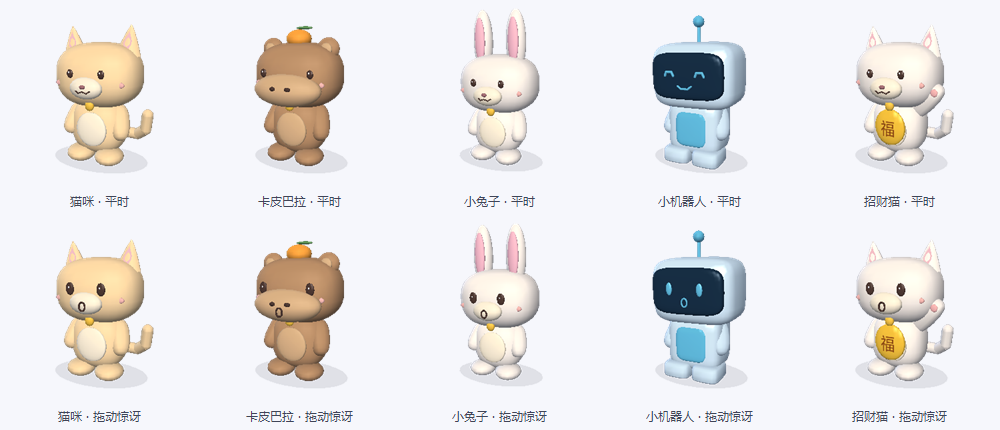
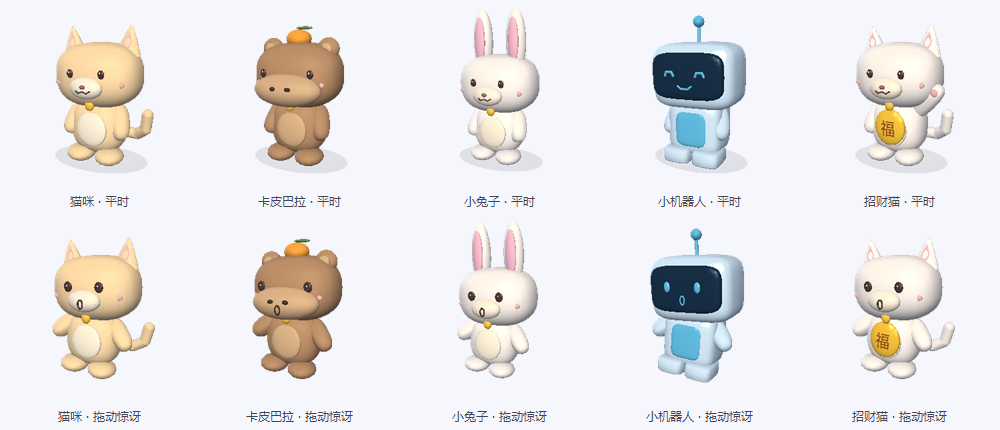
Animate picked-up pets with head sway, dangling feet and eased release

diff --git a/src/PetModel3D.cs b/src/PetModel3D.cs
@@ -34,8 +34,10 @@ public static class PetModel3D
     private sealed class Scene
     {
         public W3.Model3DGroup World = new W3.Model3DGroup();
-        public W3.AxisAngleRotation3D Head, LeftArm, RightArm, Tail;
+        public W3.AxisAngleRotation3D Head, LeftArm, RightArm, Tail, LeftLeg, RightLeg, Sway;
         public W3.ScaleTransform3D Breath, EyeLeft, EyeRight;
+        public W3.ScaleTransform3D Mouth;
+        public W3.TranslateTransform3D Lift;
         public double TargetY;
         public int Pose, Kind;
     }
@@ -189,7 +191,7 @@ public static class PetModel3D
         scene.World.Children.Add(new W3.DirectionalLight(WM.Color.FromRgb(65, 79, 104), new W3.Vector3D(.8, -.1, .4)));
         Color fur = kind == 0 ? Color.FromArgb(255, 219, 165) : kind == 1 ? Color.FromArgb(188, 143, 103) : kind == 3 ? Color.FromArgb(210, 232, 244) : Color.FromArgb(255, 245, 232);
         Color accent = theme == 0 ? Color.FromArgb(96, 188, 220) : Color.FromArgb(225, 146, 184), ink = Color.FromArgb(77, 56, 49), pale = kind == 1 ? Color.FromArgb(218, 177, 132) : Color.FromArgb(255, 241, 213);
-        if (pose != 4) Ball(scene.World, 0, -.03, 0, 1.25, .012, .85, Color.FromArgb(28, 55, 55, 75));
+        if (pose != 4 && pose != 5) Ball(scene.World, 0, -.03, 0, 1.25, .012, .85, Color.FromArgb(28, 55, 55, 75));
         W3.Model3DGroup character = new W3.Model3DGroup(); scene.World.Children.Add(character);
         scene.Breath = new W3.ScaleTransform3D(1, 1, 1, 0, 1, 0); W3.Transform3DGroup poseTransform = new W3.Transform3DGroup(); poseTransform.Children.Add(scene.Breath);
         if (pose == 1)
@@ -202,10 +204,15 @@ public static class PetModel3D
             poseTransform.Children.Add(new W3.RotateTransform3D(new W3.AxisAngleRotation3D(new W3.Vector3D(1, 0, 0), -18), new W3.Point3D(0, 1.3, 0))); poseTransform.Children.Add(new W3.TranslateTransform3D(0, .12, 0));
             Ball(scene.World, 0, .4, -.15, .8, .13, .7, accent, true); Ball(scene.World, 0, 1.1, -.75, .8, .8, .13, accent, true);
         }
+        scene.Sway = new W3.AxisAngleRotation3D(new W3.Vector3D(0, 0, 1), 0);
+        scene.Lift = new W3.TranslateTransform3D();
+        poseTransform.Children.Add(new W3.RotateTransform3D(scene.Sway, new W3.Point3D(0, 2.65, 0))); poseTransform.Children.Add(scene.Lift);
         character.Transform = poseTransform;
         Ball(character, 0, .88, 0, .7, .71, .54, fur, kind == 3, kind == 3, kind != 3);
         Ball(character, 0, .87, .49, .4, .43, .075, kind == 3 ? accent : pale, kind == 3, kind == 3);
-        Ball(character, -.38, .18, .28, .35, .21, .4, fur, kind == 3); Ball(character, .38, .18, .28, .35, .21, .4, fur, kind == 3);
+        W3.Model3DGroup leftLeg = Joint(character, new W3.Vector3D(1, 0, 0), new W3.Point3D(-.38, .65, 0), out scene.LeftLeg);
+        W3.Model3DGroup rightLeg = Joint(character, new W3.Vector3D(1, 0, 0), new W3.Point3D(.38, .65, 0), out scene.RightLeg);
+        Ball(leftLeg, -.38, .18, .28, .35, .21, .4, fur, kind == 3); Ball(rightLeg, .38, .18, .28, .35, .21, .4, fur, kind == 3);
         W3.Model3DGroup head = Joint(character, pose == 3 ? new W3.Vector3D(1, 0, 0) : new W3.Vector3D(0, 0, 1), new W3.Point3D(0, 2.05, 0), out scene.Head);
         W3.Transform3DGroup refinedHead = new W3.Transform3DGroup(); refinedHead.Children.Add(new W3.ScaleTransform3D(kind == 3 ? 1.05 : 1.14, 1.08, 1.09, 0, 2.32, 0)); refinedHead.Children.Add(new W3.TranslateTransform3D(0, -.17, 0)); refinedHead.Children.Add(head.Transform); head.Transform = refinedHead;
         Ball(head, 0, 2.32, 0, kind == 3 ? 1.01 : .94, .73, kind == 3 ? .65 : .73, fur, kind == 3, kind == 3, kind != 3);
@@ -247,7 +254,9 @@ public static class PetModel3D
             if (kind != 3 && kind != 1) Ball(head, 0, 2.12, .7, .36, .24, .17, pale);
             W3.Point3D[] mouth = new W3.Point3D[17];
             for (int i = 0; i < mouth.Length; i++) { double a = i * Math.PI * 2 / 16; mouth[i] = new W3.Point3D(Math.Cos(a) * .065, (kind == 1 ? 1.98 : kind == 3 ? 2.14 : 2.075) + Math.Sin(a) * .09, kind == 1 ? 1.005 : kind == 3 ? .774 : .88); }
-            Curve(head, mouth, .018, kind == 3 ? accent : ink);
+            scene.Mouth = new W3.ScaleTransform3D(1, 1, 1, 0, kind == 1 ? 1.98 : kind == 3 ? 2.14 : 2.075, 0);
+            W3.Model3DGroup movingMouth = new W3.Model3DGroup { Transform = scene.Mouth }; head.Children.Add(movingMouth);
+            Curve(movingMouth, mouth, .018, kind == 3 ? accent : ink);
         }
         else if (kind == 3) Curve(head, new[] { new W3.Point3D(-.16, 2.17, .77), new W3.Point3D(-.08, 2.11, .77), new W3.Point3D(.08, 2.11, .77), new W3.Point3D(.16, 2.17, .77) }, .023, accent);
         else if (kind != 1)
@@ -255,13 +264,13 @@ public static class PetModel3D
             Ball(head, 0, 2.12, .7, .36, .24, .17, pale); Ball(head, 0, 2.17, .87, .065, .045, .035, Color.FromArgb(165, 111, 115));
             Curve(head, new[] { new W3.Point3D(-.15, 2.08, .855), new W3.Point3D(-.09, 2.04, .88), new W3.Point3D(0, 2.075, .891), new W3.Point3D(.09, 2.04, .88), new W3.Point3D(.15, 2.08, .855) }, .014, ink);
         }
-        W3.Model3DGroup left = Joint(character, new W3.Vector3D(1, 0, 0), new W3.Point3D(-.55, 1.45, 0), out scene.LeftArm);
-        W3.Model3DGroup right = Joint(character, kind == 4 && pose == 0 ? new W3.Vector3D(0, 0, 1) : new W3.Vector3D(1, 0, 0), new W3.Point3D(.55, 1.45, 0), out scene.RightArm);
+        W3.Model3DGroup left = Joint(character, pose == 5 ? new W3.Vector3D(0, 0, 1) : new W3.Vector3D(1, 0, 0), new W3.Point3D(-.55, 1.45, 0), out scene.LeftArm);
+        W3.Model3DGroup right = Joint(character, pose == 5 || kind == 4 && pose == 0 ? new W3.Vector3D(0, 0, 1) : new W3.Vector3D(1, 0, 0), new W3.Point3D(.55, 1.45, 0), out scene.RightArm);
         for (int sign = -1; sign <= 1; sign += 2)
         {
             W3.Model3DGroup arm = sign < 0 ? left : right;
             W3.Point3D shoulder = new W3.Point3D(sign * .52, 1.27, .03);
-            W3.Point3D hand = pose == 4 ? new W3.Point3D(sign * .89, 2.58, .7) : pose == 3 ? new W3.Point3D(sign * .42, 1.23, 1.06) : pose == 2 ? new W3.Point3D(sign * .29, 1.34, .92) : kind == 4 && sign > 0 ? new W3.Point3D(.92, 1.95, .23) : new W3.Point3D(sign * .65, .81, .28);
+            W3.Point3D hand = pose == 5 ? new W3.Point3D(sign * .85, .91, .23) : pose == 4 ? new W3.Point3D(sign * .89, 2.58, .7) : pose == 3 ? new W3.Point3D(sign * .42, 1.23, 1.06) : pose == 2 ? new W3.Point3D(sign * .29, 1.34, .92) : kind == 4 && sign > 0 ? new W3.Point3D(.92, 1.95, .23) : new W3.Point3D(sign * .65, .81, .28);
             PlushArm(arm, shoulder, hand, fur);
             if (pose == 4) Ball(arm, hand.X, hand.Y, hand.Z, .26, .2, .2, fur, kind == 3);
             if (kind == 4 && sign > 0 && pose == 0) Ball(arm, hand.X, hand.Y, hand.Z + .2, .09, .09, .02, Color.FromArgb(245, 180, 175));
@@ -310,26 +319,39 @@ public static class PetModel3D
         }
         return result;
     }
-    public static Bitmap Render(int kind, int theme, int frame, int pose, double yaw, double pitch, bool walking, bool speaking, bool surprised = false, int pixelWidth = 200)
+    public static Bitmap Render(int kind, int theme, int frame, int pose, double yaw, double pitch, bool walking, bool speaking, bool surprised = false, int pixelWidth = 200, double dragLean = 0)
     {
+        if (surprised) pose = 5; // 临时被拎起姿态，不覆盖用户选择的坐/睡/摸鱼/工作状态。
         // 只缓存当前角色和视角的一轮循环。转动相机立即重新进行三维渲染，旧位图及时释放。
-        string view = kind + ":" + theme + ":" + yaw.ToString("R", CultureInfo.InvariantCulture) + ":" + pitch.ToString("R", CultureInfo.InvariantCulture) + ":" + surprised + ":" + pixelWidth;
+        string view = kind + ":" + theme + ":" + yaw.ToString("R", CultureInfo.InvariantCulture) + ":" + pitch.ToString("R", CultureInfo.InvariantCulture) + ":" + pixelWidth;
         if (view != cachedView)
         {
             foreach (Bitmap image in AnimationFrames.Values) image.Dispose(); AnimationFrames.Clear(); cachedView = view;
         }
         int phase = frame % 48;
         string animationKey = pose + ":" + phase + ":" + walking; Bitmap cached;
-        if (AnimationFrames.TryGetValue(animationKey, out cached)) return (Bitmap)cached.Clone();
+        bool cacheFrame = !surprised || Math.Abs(dragLean) < .05;
+        if (cacheFrame && AnimationFrames.TryGetValue(animationKey, out cached)) return (Bitmap)cached.Clone();
         string key = kind + ":" + theme + ":" + pose + ":" + surprised; Scene scene;
         if (!Scenes.TryGetValue(key, out scene)) { scene = Build(kind, theme, pose, surprised); Scenes.Add(key, scene); }
-        double t = phase * Math.PI * 2 / 48, eye = !surprised && (pose == 1 || phase >= 44 && phase <= 46) ? .07 : 1;
+        double t = phase * Math.PI * 2 / 48, eye = pose == 1 || phase >= 44 && phase <= 46 ? .07 : 1;
         scene.EyeLeft.ScaleY = scene.EyeRight.ScaleY = eye;
         scene.Breath.ScaleY = 1 + Math.Sin(t * (pose == 1 ? 1 : 2)) * .012;
         scene.Head.Angle = pose == 3 ? 6 + Math.Sin(t * 2) * 2 : Math.Sin(t) * 2;
         scene.LeftArm.Angle = pose == 3 ? Math.Sin(t * 6) * 4 : walking ? Math.Sin(t * 4) * 8 : Math.Sin(t * 2) * 2;
         scene.RightArm.Angle = kind == 4 && pose == 0 ? Math.Sin(t * 2) * 14 : -scene.LeftArm.Angle;
         scene.Tail.Angle = Math.Sin(t * 2) * 12;
+        if (surprised)
+        {
+            scene.Sway.Angle = Math.Sin(t * 2) * 4.5 + Math.Max(-10, Math.Min(10, dragLean));
+            scene.Lift.OffsetY = .045 + Math.Sin(t * 4) * .025;
+            scene.Head.Angle = -Math.Sin(t * 2 + .35) * 7;
+            scene.LeftLeg.Angle = Math.Sin(t * 4) * 25; scene.RightLeg.Angle = -scene.LeftLeg.Angle;
+            scene.LeftArm.Angle = -14 + Math.Sin(t * 3) * 11; scene.RightArm.Angle = 14 - Math.Sin(t * 3 + .6) * 11;
+            scene.Mouth.ScaleX = .9 + Math.Sin(t * 2) * .12; scene.Mouth.ScaleY = .85 + Math.Cos(t * 3) * .25;
+            scene.EyeLeft.ScaleY *= .93 + Math.Sin(t * 2) * .1; scene.EyeRight.ScaleY *= .93 + Math.Sin(t * 2 + .2) * .1;
+            scene.Tail.Angle = Math.Sin(t * 3) * 20;
+        }
         double angle = yaw * Math.PI / 180, elevation = pitch * Math.PI / 180, distance = scene.Pose == 3 || scene.Kind == 2 ? 9.0 : 8.1;
         W3.Vector3D offset = new W3.Vector3D(Math.Sin(angle) * Math.Cos(elevation) * distance, Math.Sin(elevation) * distance, Math.Cos(angle) * Math.Cos(elevation) * distance);
         Camera.Position = new W3.Point3D(offset.X, scene.TargetY + offset.Y, offset.Z); Camera.LookDirection = -offset; Camera.UpDirection = new W3.Vector3D(0, 1, 0);
@@ -341,8 +363,8 @@ public static class PetModel3D
             Bitmap result = new Bitmap(pixelWidth, (int)Math.Round(pixelWidth * .95), PixelFormat.Format32bppPArgb);
             using (Graphics g = Graphics.FromImage(result))
             { g.CompositingMode = System.Drawing.Drawing2D.CompositingMode.SourceCopy; g.InterpolationMode = System.Drawing.Drawing2D.InterpolationMode.HighQualityBicubic; g.PixelOffsetMode = System.Drawing.Drawing2D.PixelOffsetMode.HighQuality; g.DrawImage(high, new Rectangle(0, 0, result.Width, result.Height)); }
-            AnimationFrames.Add(animationKey, result);
-            return (Bitmap)result.Clone();
+            if (cacheFrame) { AnimationFrames.Add(animationKey, result); return (Bitmap)result.Clone(); }
+            return result;
         }
     }
 }

diff --git a/src/DesktopPet.cs b/src/DesktopPet.cs
@@ -31,6 +31,22 @@ public sealed class PetHoverState
     }
 }
 
+// 使用经过时间而不是鼠标消息次数控制过渡，拖得快慢都不会突然跳脸。
+public sealed class PetDragMotion
+{
+    private DateTime last;
+    public double Amount { get; private set; }
+    public double Lean { get; private set; }
+    public void Update(bool held, DateTime now, double impulse)
+    {
+        double seconds = last == DateTime.MinValue ? .04 : Math.Max(0, Math.Min(.1, (now - last).TotalSeconds)); last = now;
+        Amount += ((held ? 1 : 0) - Amount) * (1 - Math.Exp(-seconds / (held ? .09 : .16)));
+        Lean += ((held ? Math.Max(-10, Math.Min(10, impulse)) : 0) - Lean) * (1 - Math.Exp(-seconds / .1));
+        if (Amount < .005) Amount = 0; else if (Amount > .995) Amount = 1;
+        if (Math.Abs(Lean) < .05) Lean = 0;
+    }
+}
+
 public sealed class DesktopPet : Form
 {
     private Settings settings;
@@ -43,6 +59,10 @@ public sealed class DesktopPet : Form
     private bool previewVisible;
     private readonly ContextMenuStrip petMenu;
     private readonly PetBehavior behavior = new PetBehavior(DateTime.Now, Environment.TickCount);
+    private readonly PetDragMotion dragMotion = new PetDragMotion();
+    private Point dragLast;
+    private double dragImpulse;
+    private DateTime lastDraw;
     private Point down;
     private PointF grab;
     private bool dragging, rotating, travelled;
@@ -91,6 +111,8 @@ public sealed class DesktopPet : Form
         timer.Interval = 100; timer.Tick += delegate
         {
             frame++;
+            dragMotion.Update(dragging && travelled, DateTime.UtcNow, dragImpulse); dragImpulse *= .65;
+            timer.Interval = dragging && travelled || dragMotion.Amount > 0 ? 40 : 100;
             if (!Visible) { hover.Leave(); RefreshHover(); return; }
             if (frame % 10 == 0 && !rotating) FitDisplay();
             if (dockEdge != 0 && !dockExpanded && Bounds.Contains(Cursor.Position) && WindowFromPoint(Cursor.Position) == Handle)
@@ -100,8 +122,8 @@ public sealed class DesktopPet : Form
             { dockExpanded = false; hover.Leave(); }
             dockReveal = Math.Max(0, Math.Min(1, dockReveal + (dockExpanded ? .4 : -.4)));
             RefreshHover();
-            behavior.Update(settings.PetPose, DateTime.Now, dockEdge != 0 || Paused || Speaking || dragging || rotating || hover.Inside);
-            bool walk = dockEdge == 0 && settings.PetWalk && CurrentPose == 0 && !Paused && !Speaking && !dragging && !rotating && !hover.Inside && frame % 170 > 95;
+            behavior.Update(settings.PetPose, DateTime.Now, dockEdge != 0 || dragMotion.Amount > 0 || Paused || Speaking || dragging || rotating || hover.Inside);
+            bool walk = dockEdge == 0 && dragMotion.Amount == 0 && settings.PetWalk && CurrentPose == 0 && !Paused && !Speaking && !dragging && !rotating && !hover.Inside && frame % 170 > 95;
             if (walk)
             {
                 Rectangle screen = Screen.FromRectangle(Bounds).WorkingArea;
@@ -124,6 +146,7 @@ public sealed class DesktopPet : Form
             hover.Suppress(); RefreshHover();
             dragging = e.Button == MouseButtons.Left; rotating = e.Button == MouseButtons.Right;
             travelled = false; down = Cursor.Position; grab = new PointF(e.X / (float)Width, e.Y / (float)Height); downYaw = yaw; downPitch = pitch; Capture = true;
+            dragLast = down; dragImpulse = 0;
         };
         MouseMove += delegate
         {
@@ -132,7 +155,12 @@ public sealed class DesktopPet : Form
             if (Math.Abs(x) + Math.Abs(y) > 5) travelled = true;
             if (!travelled) return;
             if (rotating) { yaw = ((downYaw + x * .7) % 360 + 360) % 360; pitch = Math.Max(-25, Math.Min(60, downPitch + y * .45)); }
-            else { dockEdge = 0; dockExpanded = false; dockReveal = 0; Location = new Point(Cursor.Position.X - (int)(grab.X * Width), Cursor.Position.Y - (int)(grab.Y * Height)); }
+            else
+            {
+                dragImpulse = Math.Max(-10, Math.Min(10, (Cursor.Position.X - dragLast.X) * 45.0 / Width)); dragLast = Cursor.Position;
+                dragMotion.Update(true, DateTime.UtcNow, dragImpulse);
+                dockEdge = 0; dockExpanded = false; dockReveal = 0; Location = new Point(Cursor.Position.X - (int)(grab.X * Width), Cursor.Position.Y - (int)(grab.Y * Height));
+            }
             Draw(false);
         };
         MouseUp += delegate(object sender, MouseEventArgs e)
@@ -146,6 +174,7 @@ public sealed class DesktopPet : Form
             }
             if (!dragging || e.Button != MouseButtons.Left) return;
             dragging = false; Capture = false;
+            dragImpulse = 0;
             if (travelled)
             {
                 Rectangle screen = Screen.FromRectangle(Bounds).WorkingArea;
@@ -154,6 +183,7 @@ public sealed class DesktopPet : Form
             }
             else toggleDetails();
         };
+        MouseCaptureChanged += delegate { if (!Capture) { dragging = false; rotating = false; dragImpulse = 0; } };
         }
         finally { if (previousDpi != IntPtr.Zero) SetThreadDpiAwarenessContext(previousDpi); }
     }
@@ -216,7 +246,7 @@ public sealed class DesktopPet : Form
     protected override bool ShowWithoutActivation { get { return true; } }
     private void RefreshHover()
     {
-        bool show = hover.ShouldShow(DateTime.UtcNow, Paused || Speaking || dragging || rotating || petMenu.Visible || !settings.HoverEnabled);
+        bool show = hover.ShouldShow(DateTime.UtcNow, Paused || Speaking || dragging || dragMotion.Amount > 0 || rotating || petMenu.Visible || !settings.HoverEnabled);
         if (show != previewVisible) { previewVisible = show; if (hoverChanged != null) hoverChanged(show); }
     }
     protected override CreateParams CreateParams { get { CreateParams p = base.CreateParams; p.ExStyle |= 0x00080000 | 0x08000000; return p; } }
@@ -230,12 +260,27 @@ public sealed class DesktopPet : Form
     private void Draw(bool walking)
     {
         if (!IsHandleCreated) return;
-        int pose = behavior.Update(settings.PetPose, DateTime.Now, dockEdge != 0 || Paused || Speaking || dragging || rotating || hover.Inside);
-        using (Bitmap character = dockEdge == 0 ? PetModel3D.Render(settings.PetCharacter, settings.Theme, frame, pose, yaw, pitch, walking, Speaking, dragging && travelled, Math.Min(300, Width)) : PetModel3D.RenderDocked(settings.PetCharacter, settings.Theme, frame, dockEdge, dockReveal, Math.Min(300, Width)))
+        if (dragging && (DateTime.UtcNow - lastDraw).TotalMilliseconds < 35) return;
+        lastDraw = DateTime.UtcNow;
+        int pose = behavior.Update(settings.PetPose, DateTime.Now, dockEdge != 0 || dragMotion.Amount > 0 || Paused || Speaking || dragging || rotating || hover.Inside);
+        double amount = dockEdge == 0 ? dragMotion.Amount : 0;
+        using (Bitmap character = dockEdge != 0 ? PetModel3D.RenderDocked(settings.PetCharacter, settings.Theme, frame, dockEdge, dockReveal, Math.Min(300, Width)) : amount < 1 ? PetModel3D.Render(settings.PetCharacter, settings.Theme, frame, pose, yaw, pitch, walking, Speaking, false, Math.Min(300, Width)) : null)
+        using (Bitmap lifted = amount > 0 ? PetModel3D.Render(settings.PetCharacter, settings.Theme, frame, pose, yaw, pitch, false, Speaking, true, Math.Min(300, Width), dragMotion.Lean) : null)
         using (Bitmap bitmap = new Bitmap(Width, Height, PixelFormat.Format32bppPArgb))
         {
             using (Graphics graphics = Graphics.FromImage(bitmap))
-            { graphics.CompositingMode = CompositingMode.SourceCopy; graphics.InterpolationMode = InterpolationMode.HighQualityBicubic; graphics.DrawImage(character, new Rectangle(0, 0, Width, Height)); }
+            {
+                graphics.InterpolationMode = InterpolationMode.HighQualityBicubic;
+                for (int layer = 0; layer < 2; layer++)
+                {
+                    Bitmap frameImage = layer == 0 ? character : lifted; if (frameImage == null) continue;
+                    using (ImageAttributes attributes = new ImageAttributes())
+                    {
+                        ColorMatrix alpha = new ColorMatrix(); alpha.Matrix33 = (float)(layer == 0 ? 1 - amount : amount); attributes.SetColorMatrix(alpha);
+                        graphics.DrawImage(frameImage, new Rectangle(0, 0, Width, Height), 0, 0, frameImage.Width, frameImage.Height, GraphicsUnit.Pixel, attributes);
+                    }
+                }
+            }
             IntPtr screen = GetDC(IntPtr.Zero), dc = CreateCompatibleDC(screen), image = bitmap.GetHbitmap(Color.FromArgb(0));
             IntPtr old = SelectObject(dc, image);
             try

diff --git a/src/WorkEncourager.cs b/src/WorkEncourager.cs
@@ -1532,6 +1532,37 @@ public static class Tests
             }
             finally { Microsoft.Win32.Registry.CurrentUser.DeleteSubKey(registryTest, false); }
             check(StartupOption.CurrentCommand == startupBefore, "Startup verification leaves real Windows startup settings untouched");
+            PetDragMotion pickup = new PetDragMotion(); DateTime pickupTime = new DateTime(2026, 11, 3, 9, 0, 0);
+            pickup.Update(false, pickupTime, 0); pickup.Update(true, pickupTime.AddMilliseconds(40), 10);
+            check(pickup.Amount > 0 && pickup.Amount < 1, "Picking up eases into the drag pose instead of snapping");
+            for (int tick = 2; tick <= 16; tick++) pickup.Update(true, pickupTime.AddMilliseconds(tick * 40), 100);
+            check(pickup.Amount == 1 && pickup.Lean > 0 && pickup.Lean <= 10, "Held pose reaches full strength while movement lean stays bounded");
+            double initialLean = pickup.Lean; pickup.Update(true, pickupTime.AddMilliseconds(680), -100);
+            check(pickup.Lean < initialLean && pickup.Lean > -10, "Reversing drag direction changes lean gradually");
+            pickup.Update(false, pickupTime.AddMilliseconds(720), 0);
+            check(pickup.Amount > 0 && pickup.Amount < 1, "Releasing retains a brief settling transition");
+            for (int tick = 19; tick <= 60; tick++) pickup.Update(false, pickupTime.AddMilliseconds(tick * 40), 0);
+            check(pickup.Amount == 0 && pickup.Lean == 0, "Interrupted or released drags always return to idle");
+            PetDragMotion frequent = new PetDragMotion(), sparse = new PetDragMotion();
+            frequent.Update(false, pickupTime, 0); sparse.Update(false, pickupTime, 0);
+            for (int tick = 1; tick <= 12; tick++) frequent.Update(true, pickupTime.AddMilliseconds(tick * 10), 0);
+            for (int tick = 1; tick <= 3; tick++) sparse.Update(true, pickupTime.AddMilliseconds(tick * 40), 0);
+            check(Math.Abs(frequent.Amount - sparse.Amount) < .001, "Animation transition is independent of mouse message frequency");
+            for (int character = 0; character < 5; character++)
+            using (Bitmap first = PetModel3D.Render(character, 0, 0, 0, 25, 12, false, false, true))
+            using (Bitmap next = PetModel3D.Render(character, 0, 6, 0, 25, 12, false, false, true))
+            {
+                int changedFeet = 0;
+                for (int y = 120; y < 190; y++) for (int x = 0; x < 200; x++) if (first.GetPixel(x, y) != next.GetPixel(x, y)) changedFeet++;
+                check(changedFeet > 80, "Held animation moves feet and body rather than only a fixed face: " + character);
+            }
+            using (Bitmap sitting = PetModel3D.Render(3, 0, 6, 0, 25, 12, false, false, true))
+            using (Bitmap working = PetModel3D.Render(3, 0, 6, 3, 25, 12, false, false, true))
+            {
+                bool same = true;
+                for (int y = 0; y < 190; y++) for (int x = 0; x < 200; x++) if (sitting.GetPixel(x, y) != working.GetPixel(x, y)) same = false;
+                check(same, "Temporary picked-up pose has no floating work desk and does not depend on saved activity");
+            }
             using (ReminderPopup popup = new ReminderPopup("喝水时间到了，给自己补充一点水分。", 0))
             {
                 popup.Opacity = 0; popup.Show(); Application.DoEvents();

diff --git a/README.md b/README.md
@@ -22,7 +22,7 @@ Windows 三维桌宠与可配置详情面板，显示当天上班进度、剩余
 - 桌宠大小可在设置中连续调节 50%–150%，默认 100%；按所在显示器缩放调整，副屏断开或工作区变化后自动回到可见位置。
 - 详情顶部的小眼睛、右键菜单和 Ctrl+Alt+P 可切换隐私模式，统一隐藏收入与下班总结金额，记住状态；设置页的月薪可主动查看。
 - 可选择登录 Windows 后自动启动，默认关闭；启用时使用当前程序路径，不随分享配置传播。
-- 左键实际拖动角色时切换惊讶表情，松手恢复；五种桌宠均支持，轻点和右键旋转不触发表情。
+- 左键实际拖动角色时进入被拎起的临时姿态：身体轻摆、反向歪头、交替晃腿和小幅挣扎，眼睛与嘴巴随动作变化；松手过渡回原状态。五种桌宠均支持，轻点和右键旋转不触发。
 - 坐着、睡觉、摸鱼、工作四种状态，默认每10–20秒随机切换，也可在右键菜单手动指定。姿态只影响动画，不影响工资或提醒判定。
 - 点击桌宠展开或收起详情。五个详情组件可勾选显隐、拖动排序并记住配置，内容较多时可滚动查看。
 - 鼠标停留在桌宠上约半秒，显示实时信息气泡，移开自动收起；点击展开的详情保持显示。悬浮内容可独立勾选，不改变详情组件配置。
@@ -65,7 +65,9 @@ Windows 三维桌宠与可配置详情面板，显示当天上班进度、剩余
 
 ![隐私模式与详情顶部的小眼睛](assets/privacy.png)
 
-![五种桌宠的正常与拖动惊讶表情](assets/drag.png)
+![五种桌宠的被拎起动作与松手恢复](assets/drag-motion.gif)
+
+拖动动画按经过时间过渡，鼠标消息频率不影响切换速度；实际拖动时暂时隐藏工作桌、手机和睡垫，松手后恢复原来选择的状态。动画只改变角色绘制，不延迟窗口跟随鼠标，也不修改收入、提醒或隐私设置。拖动被打断时会自动退出被拎起状态。
 
 设置中的“桌宠大小”只改变角色，详情面板的紧凑/迷你选项保持独立，保存后生效。桌宠在 Windows 10 支持的每显示器 DPI 模式下跟随屏幕缩放；旧系统使用兼容缩放。位置修复依据当前可用屏幕工作区，保留四边贴墙方向。不同缩放比例的多屏环境仍建议在自己的设备上核实效果。
 
